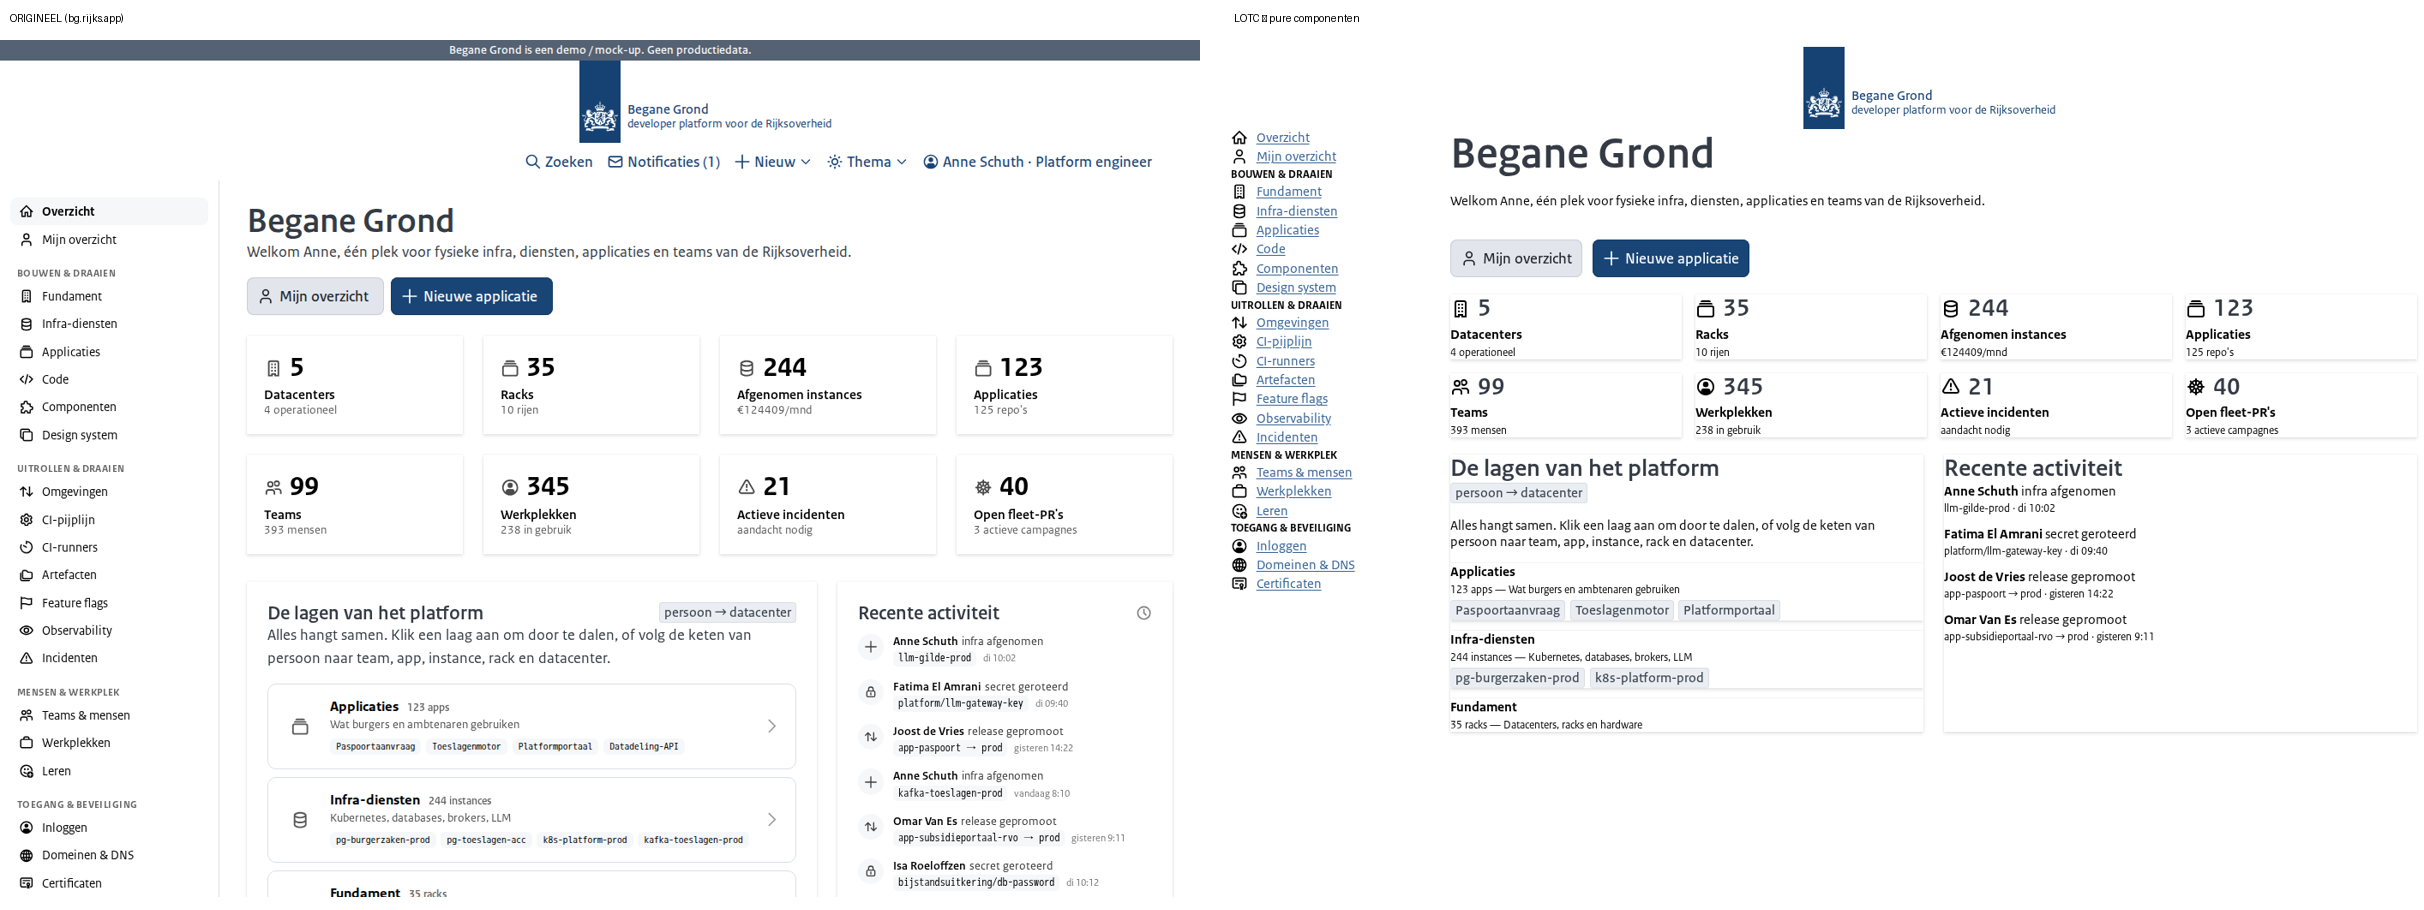
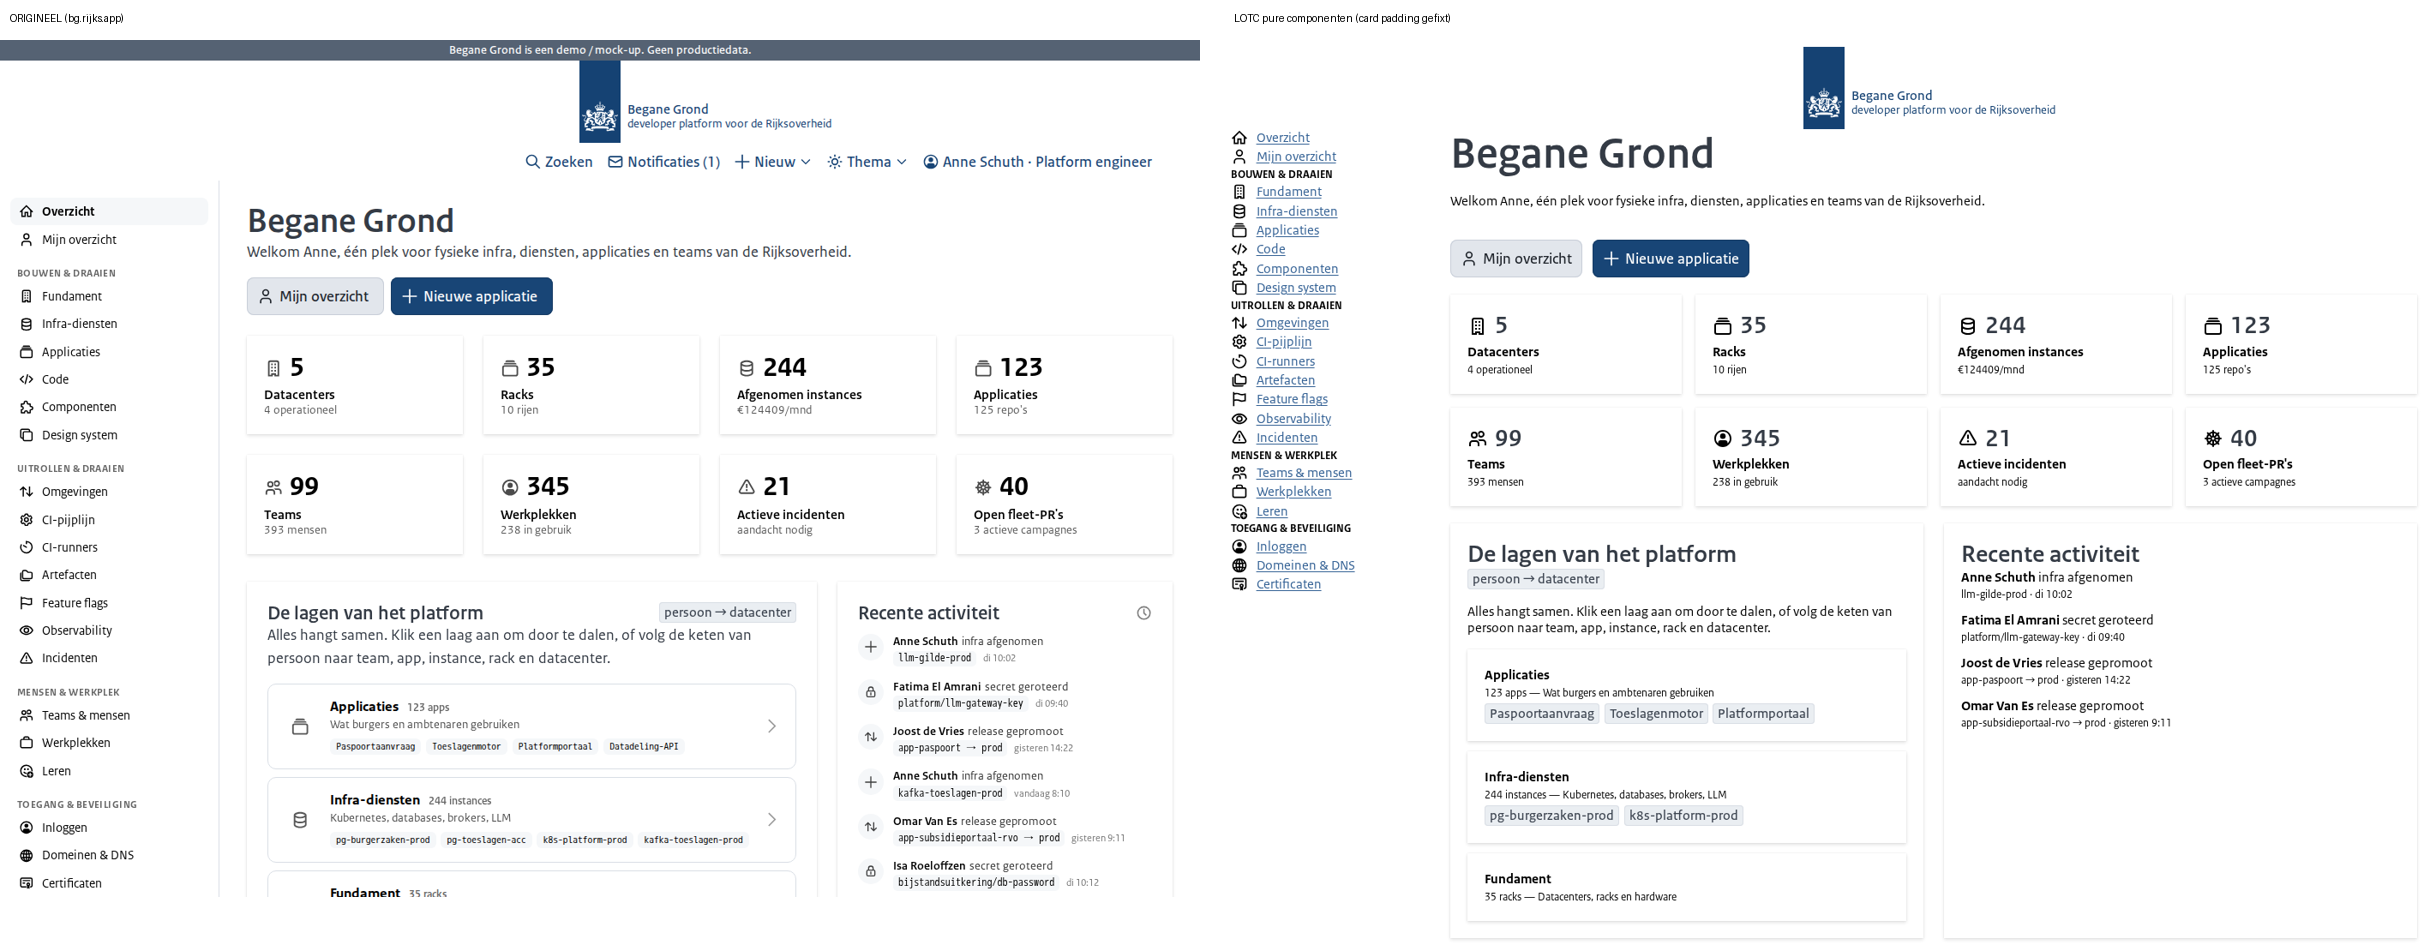
Fix NLDD c-card padding: wrap body in nldd-container, honor padding prop
nldd-card has no intrinsic padding (.card__main is a bare slot); NLDD composes
padding with a wrapping nldd-container. Our impl emitted a bare <div> and
ignored the card's own padding prop (default md), so content sat flush to the
edge. Wrap the body in <nldd-container> and map padding none/sm/md/lg/xl ->
0/16/20/24/32, matching how the design system is actually used.

diff --git a/themes/nldd/components/card.impl.ts b/themes/nldd/components/card.impl.ts
@@ -19,9 +19,22 @@ export const cardImpl = defineImplementation({
         attributes: [{ attr: "slot", type: "static", value: "header" }],
         text: { prop: "title" },
       },
-      // Body -> default slot.
-      { element: "div", text: { content: true } },
+      // Body -> default slot, wrapped in an nldd-container for padding.
+      // nldd-card itself has NO intrinsic padding (.card__main is a bare slot);
+      // NLDD composes padding via nldd-container (its `padding` takes a numeric
+      // spacer token). Map our t-shirt `padding` prop onto that scale so
+      // <c-card> content isn't flush against the card edge.
+      {
+        element: "nldd-container",
+        attributes: [
+          { prop: "padding", attr: "padding", type: "value", conditional: true, valueMap: "padding" },
+        ],
+        text: { content: true },
+      },
     ],
+  },
+  valueMaps: {
+    padding: { none: "0", sm: "16", md: "20", lg: "24", xl: "32" },
   },
   mixins: { genericAttributes: true },
 });

diff --git a/python/tests/test_card_alert_nldd.py b/python/tests/test_card_alert_nldd.py
@@ -37,6 +37,18 @@ def test_card_nldd():
     assert 'slot="header"' in html  # title in the header slot
     assert "Titel" in html and "Inhoud" in html
     assert "rvo-card" not in html
+    # nldd-card has no intrinsic padding: the body must sit in an nldd-container
+    # whose padding comes from the `padding` prop (default md -> 20).
+    assert "<nldd-container" in html and 'padding="20"' in html
+
+
+def test_card_nldd_padding_prop_maps_to_container_token():
+    render = lambda p: _env("nldd").from_string(f'<c-card padding="{p}">x</c-card>').render()
+    assert 'padding="0"' in render("none")
+    assert 'padding="16"' in render("sm")
+    assert 'padding="20"' in render("md")
+    assert 'padding="24"' in render("lg")
+    assert 'padding="32"' in render("xl")
 
 
 # ── alert ──────────────────────────────────────────────────────────────────────

diff --git a/tests/visual/BG_OVERZICHT_GAPS.md b/tests/visual/BG_OVERZICHT_GAPS.md
@@ -35,6 +35,26 @@ Fix: `themes/nldd/components/icon.impl.ts` now maps `2xs..4xl → 16..96` via a
 `sizes` valueMap. Regression test: `python/tests/test_icon_size_nldd.py`.
 (Before/after is the difference between the first and second `bg-overzicht-lotc.png`.)
 
+## Bug found & fixed: `c-card` had no padding (NLDD)
+
+`nldd-card` has **no intrinsic padding** — `.card__main` is a bare slot
+(`card.styles.ts`), so NLDD composes padding with a wrapping `<nldd-container
+padding="…">` (the site uses `20` for metric cards, `24` for section cards). Our
+impl emitted a bare `<div>` for the body **and ignored the card's own `padding`
+prop** (which defaults to `md`), so all card content sat flush against the edge.
+
+Fix: `themes/nldd/components/card.impl.ts` now wraps the body in `<nldd-container>`
+and maps the `padding` prop (`none/sm/md/lg/xl → 0/16/20/24/32`) onto NLDD's spacer
+scale. `<c-card>` → `<nldd-card><nldd-container padding="20">…` — the site's exact
+pattern. Regression: `test_card_alert_nldd.py`.
+
+### Audited faithful (no change needed)
+
+`c-button` (`size="md"` — NLDD button accepts `xs/sm/md/lg`), `c-tag`
+(`type="default" → color="neutral"`, matches the site). `c-heading`/`c-h1..h6` map
+heading level → `nldd-title size` correctly; the site's smaller visual sizes
+(`size="2"` for its h1) are a per-page usage choice, not a component defect.
+
 ## Remaining gaps (no component today — documented, not worked around)
 
 1. **Status bar** — the site's top `nldd-status-bar` ("… demo / mock-up …") has no
